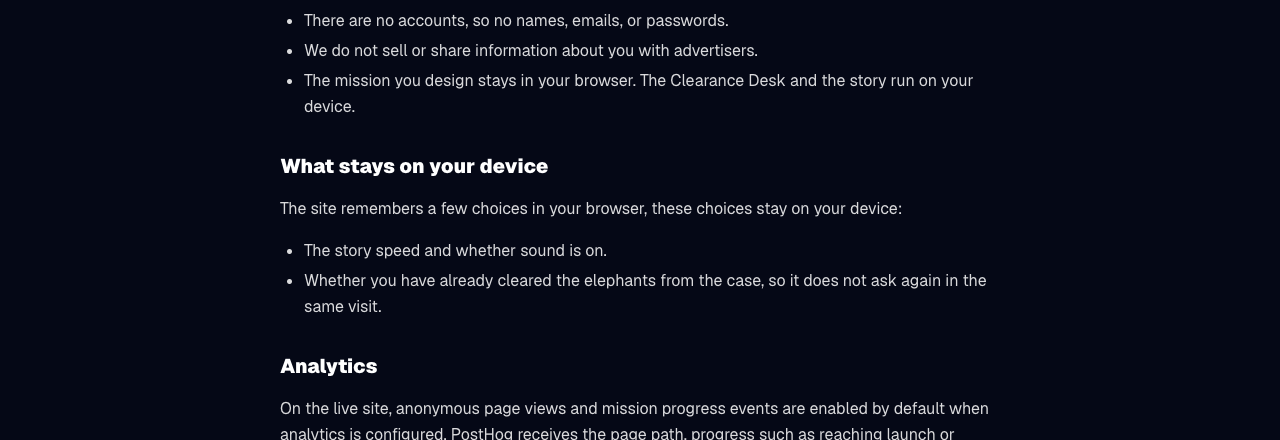
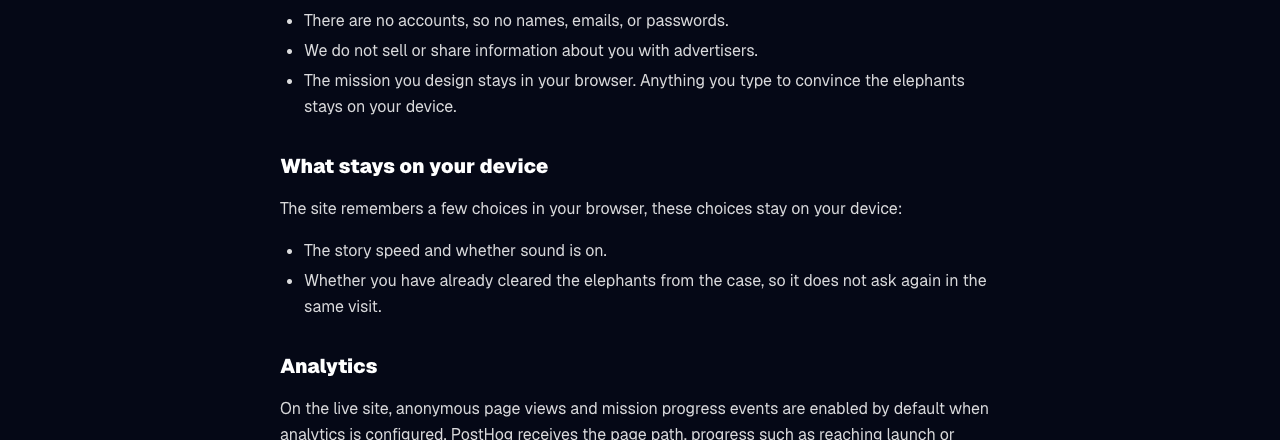
fix: reword the elephant input line on the Privacy page

Changed region(s): [[0.5, 0.1477, 0.7812, 0.2068], [0.2188, 0.2364, 0.375, 0.2659]]

diff --git a/apps/web/src/app/privacy/page.tsx b/apps/web/src/app/privacy/page.tsx
@@ -14,7 +14,7 @@ export default function PrivacyPage() {
       <ul>
         <li>There are no accounts, so no names, emails, or passwords.</li>
         <li>We do not sell or share information about you with advertisers.</li>
-        <li>The mission you design stays in your browser. The Clearance Desk and the story run on your device.</li>
+        <li>The mission you design stays in your browser. Anything you type to convince the elephants stays on your device.</li>
       </ul>
       <h2>What stays on your device</h2>
       <p>The site remembers a few choices in your browser, these choices stay on your device:</p>
